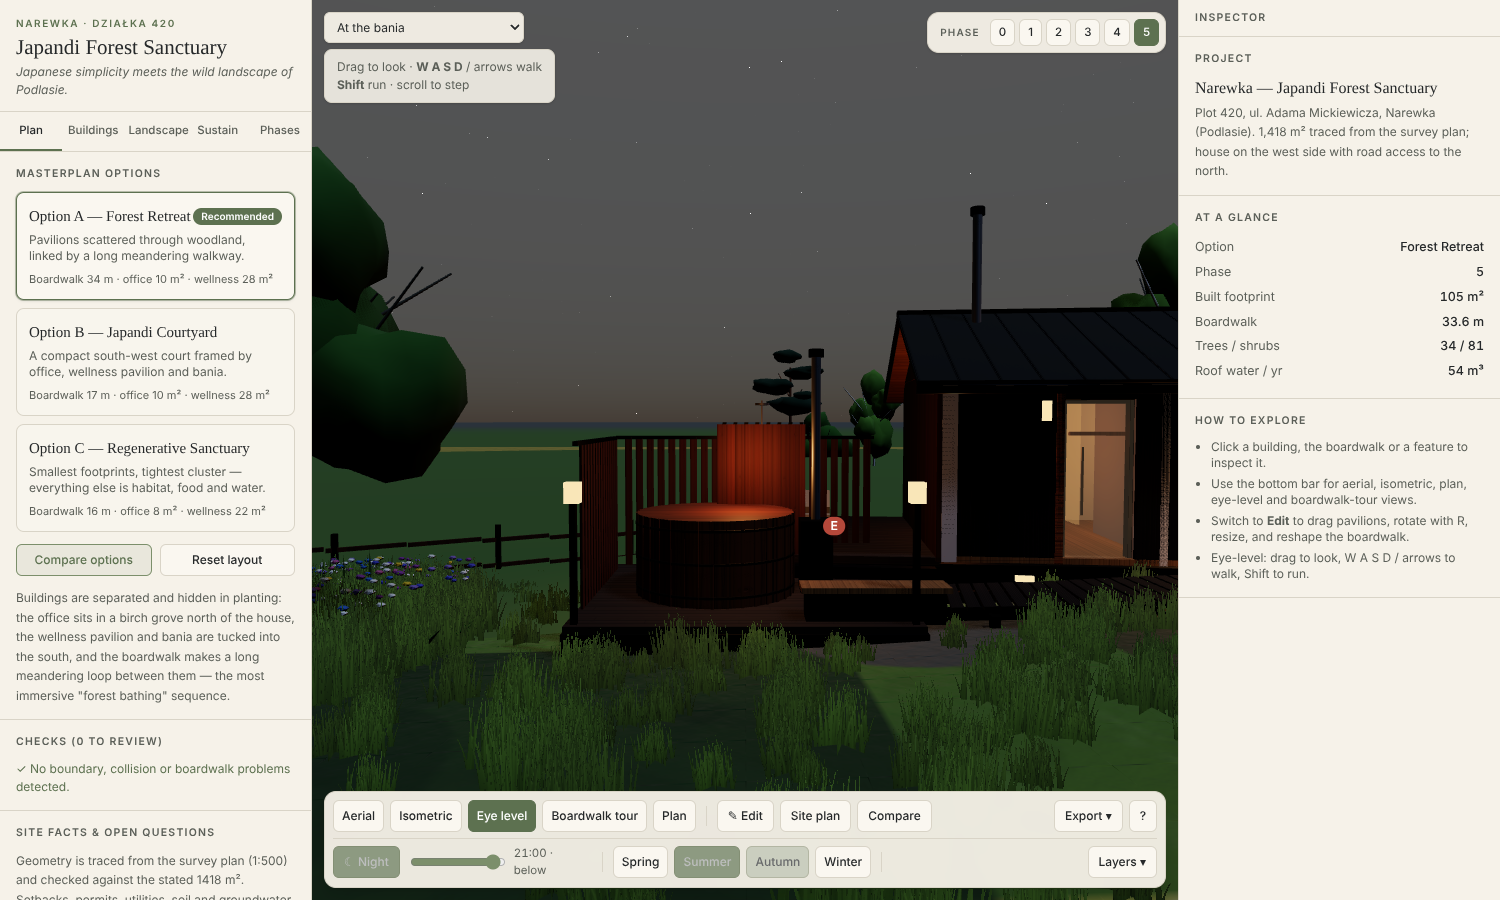
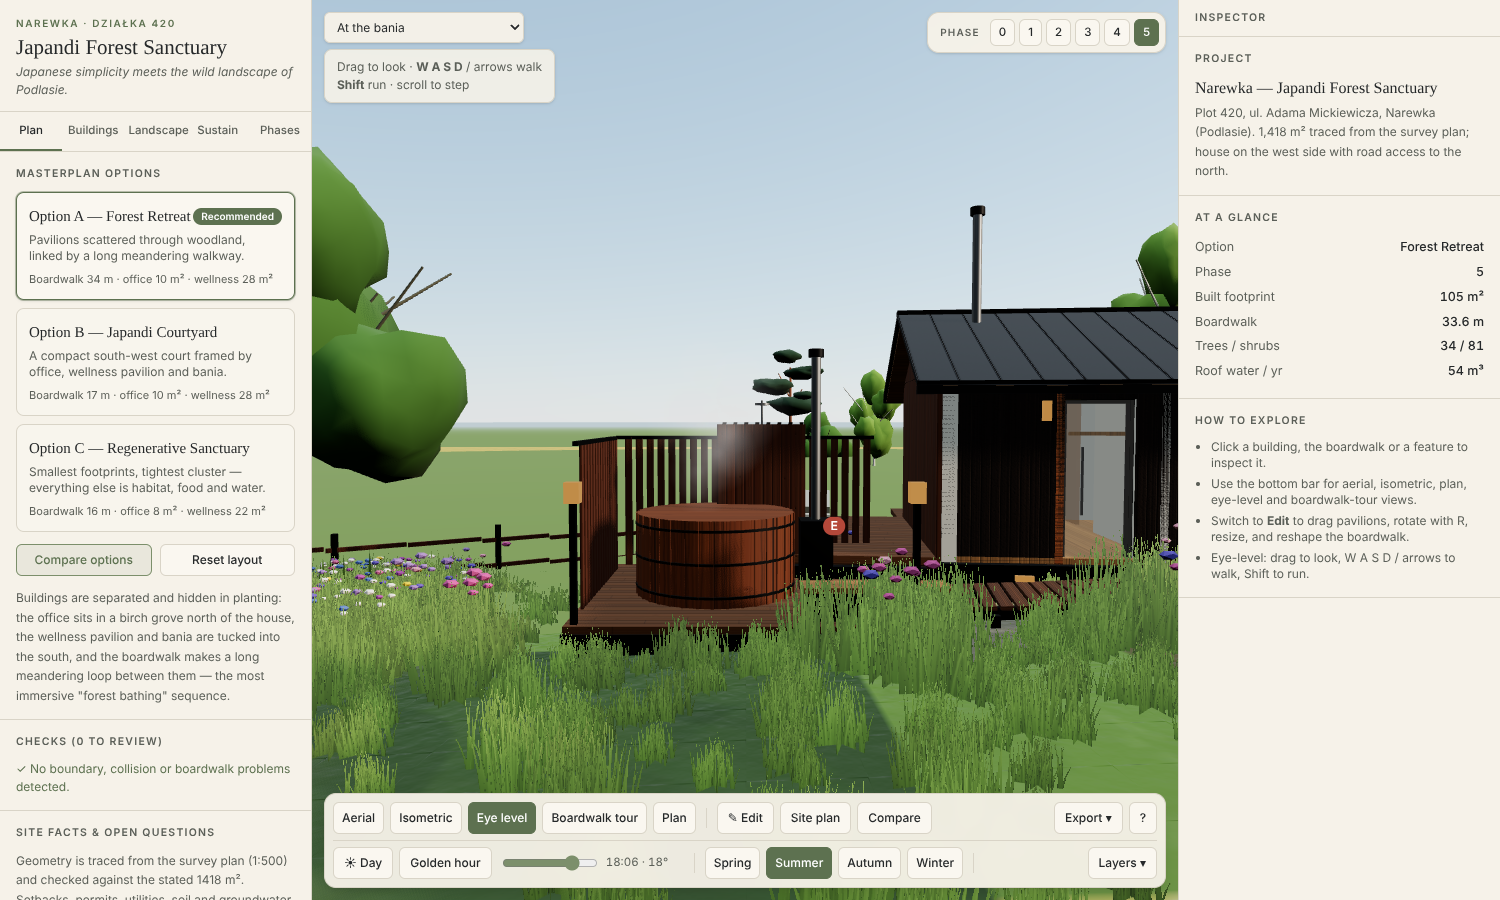
Golden-hour look, warmer timber, pavilion decks, pots, steam, perennial borders
Claude-Session: https://claude.ai/code/session_013LL2KCf1SQnkWK21ft5mYr

diff --git a/src/scene/Pavilions.tsx b/src/scene/Pavilions.tsx
@@ -1,10 +1,11 @@
-import { useMemo } from 'react'
+import { useMemo, useRef } from 'react'
+import { useFrame } from '@react-three/fiber'
 import * as THREE from 'three'
 import type { Structure } from '../data/layouts'
 import { useStore } from '../store'
 import { rectCorners, terrainY } from '../lib/geometry'
 import { B, Cyl, Wall, Glazing, Gable, GableRoof, MonoRoof, type Opening } from './prims'
-import { M, flatMat } from './materials'
+import { M, flatMat, steamTexture } from './materials'
 import { usePick, useSunState } from './env'
 import { useWalk } from './useWalk'
 
@@ -55,6 +56,45 @@ function Piles({ s, floor }: { s: Structure; floor: number }) {
 }
 
 const plantGeo = new THREE.IcosahedronGeometry(1, 1)
+/** Row of terracotta pots with perennials along a deck edge (local coordinates). */
+function Pots({ xs, z, y = 0 }: { xs: number[]; z: number; y?: number }) {
+  return (
+    <>
+      {xs.map((x, i) => (
+        <group key={i} position={[x, y, z]}>
+          <Cyl at={[0, 0.17, 0]} r={0.17} h={0.34} m={M.pot} seg={10} />
+          <mesh position={[0, 0.52, 0]} scale={[0.27, 0.3 + (i % 3) * 0.06, 0.27]} geometry={plantGeo} material={M.green} castShadow />
+          {i % 2 === 0 && <mesh position={[0.05, 0.78, 0]} scale={[0.09, 0.06, 0.09]} geometry={plantGeo} material={M.fabricMustard} />}
+        </group>
+      ))}
+    </>
+  )
+}
+
+/** Rising steam above the bathing tub. */
+function Steam() {
+  const refs = useRef<(THREE.Sprite | null)[]>([])
+  useFrame(({ clock }) => {
+    refs.current.forEach((s, i) => {
+      if (!s) return
+      const t = (clock.elapsedTime * 0.22 + i / 8) % 1
+      s.position.set(Math.sin(i * 2.1 + t * 3) * 0.3, t * 1.9, Math.cos(i * 3.3 + t * 2) * 0.3)
+      const k = 0.55 + t * 1.2
+      s.scale.set(k, k, 1)
+      ;(s.material as THREE.SpriteMaterial).opacity = 0.42 * Math.sin(Math.PI * t)
+    })
+  })
+  return (
+    <group position={[0, 1.0, 0]}>
+      {Array.from({ length: 8 }, (_, i) => (
+        <sprite key={i} ref={(el) => { refs.current[i] = el }}>
+          <spriteMaterial map={steamTexture} transparent depthWrite={false} color="#ffffff" opacity={0.3} />
+        </sprite>
+      ))}
+    </group>
+  )
+}
+
 const ox = (x0: number, x1: number, y0: number, y1: number, extra: Partial<Opening> = {}): Opening => ({ x0, x1, y0, y1, ...extra })
 
 /** Trapezoid side wall for mono-pitch volumes: cladding outside, plaster inside. `side` = +1 east / -1 west. */
@@ -86,7 +126,7 @@ export function Office({ s }: { s: Structure }) {
   const floor = useFloorY(s)
   const pick = usePick(s.id)
   const interiors = useStore((st) => st.layers.interiors)
-  const { night } = useSunState()
+  const { glow: night } = useSunState()
   const w = s.w, d = s.d
   const low = 2.4, high = 3.05
   const front: Opening[] = [ox(-w / 2 + 0.45, w / 2 - 0.45, 0.4, 2.6, { mullions: 1 })]
@@ -129,6 +169,10 @@ export function Office({ s }: { s: Structure }) {
       </mesh>
       <Cyl at={[-0.8, 0.28, d / 2 - 0.5]} r={0.16} h={0.4} m={M.pot} seg={10} />
       <Cyl at={[-0.8, 0.7, d / 2 - 0.5]} r={0.24} h={0.5} m={M.green} seg={8} cast={false} />
+      {/* view-side deck with pots */}
+      <B at={[0, -0.02, d / 2 + 0.95]} s={[w + 0.7, 0.1, 1.6]} m={M.deck} />
+      {[-w / 2 - 0.2, w / 2 + 0.2].map((x, i) => <B key={'dp' + i} at={[x, -0.25, d / 2 + 1.6]} s={[0.1, 0.4, 0.1]} m={M.steel} cast={false} />)}
+      <Pots xs={[-w / 2 + 0.1, w / 2 - 0.1]} z={d / 2 + 1.55} />
       {/* entrance landing + lamp */}
       <B at={[0.8, 0.0, -d / 2 - 0.5]} s={[1.3, 0.1, 0.9]} m={M.deck} />
       <B at={[1.45, 2.15, -d / 2 - 0.08]} s={[0.1, 0.26, 0.1]} m={M.lamp} cast={false} />
@@ -144,7 +188,7 @@ export function Wellness({ s }: { s: Structure }) {
   const floor = useFloorY(s)
   const pick = usePick(s.id)
   const interiors = useStore((st) => st.layers.interiors)
-  const { night } = useSunState()
+  const { glow: night } = useSunState()
   const w = s.w, d = s.d
   const eave = 2.55
   const pitch = (24 * Math.PI) / 180
@@ -212,6 +256,11 @@ export function Wellness({ s }: { s: Structure }) {
       <B at={[-w / 2 + 0.05, 1.2, 0.0]} s={[0.04, 1.8, 1.6]} m={M.glass} cast={false} />
       <Cyl at={[-w / 2 + 1.7, 0.12, 0.6]} r={0.09} h={0.7} m={M.fabricSage} rot={[0, 0, Math.PI / 2]} seg={10} />
       <B at={[-w / 2 + 1.0, 0.12, 0.7]} s={[0.6, 0.04, 1.7]} m={M.fabricSage} cast={false} />
+      {/* south deck along the glazing, with pots and lanterns */}
+      <B at={[0, -0.02, d / 2 + 0.85]} s={[w + 0.3, 0.1, 1.5]} m={M.deck} />
+      <B at={[0, -0.27, d / 2 + 0.85]} s={[w, 0.4, 1.4]} m={M.steel} cast={false} />
+      <Pots xs={[-w / 2 + 0.3, -w / 2 + 2.2, 0.8, w / 2 - 0.9]} z={d / 2 + 1.45} />
+      {[-w / 2 + 1.4, w / 2 - 1.5].map((x, i) => <B key={'ln' + i} at={[x, 0.2, d / 2 + 0.5]} s={[0.16, 0.34, 0.16]} m={M.lamp} cast={false} />)}
       {/* exterior: east relaxation deck + outdoor shower + lounger */}
       <group position={[w / 2 + 1.6, 0, 0]}>
         <B at={[0, 0.0, 0]} s={[3.2, 0.12, d]} m={M.deck} />
@@ -235,7 +284,7 @@ export function Wellness({ s }: { s: Structure }) {
 export function Bania({ s }: { s: Structure }) {
   const floor = useFloorY(s)
   const pick = usePick(s.id)
-  const { night } = useSunState()
+  const { glow: night } = useSunState()
   const w = s.w, d = s.d
   const tubR = Math.min(0.98, Math.min(w, d) / 2 - 0.55)
   const tx = w / 2 - tubR - 0.55
@@ -255,6 +304,7 @@ export function Bania({ s }: { s: Structure }) {
           <circleGeometry args={[tubR - 0.04, 36]} />
         </mesh>
         <mesh position={[0, 0.94, 0]} material={M.fire} />
+        <Steam />
         <B at={[-tubR - 0.28, 0.45, 0]} s={[0.4, 0.9, 0.4]} m={M.steel} />
         <Cyl at={[-tubR - 0.28, 1.9, 0]} r={0.06} h={2.1} m={M.steelLight} seg={10} />
         <Cyl at={[-tubR - 0.28, 2.98, 0]} r={0.1} h={0.1} m={M.steel} seg={10} />
@@ -288,7 +338,7 @@ export function Bania({ s }: { s: Structure }) {
 /* ------------------------------------------------------------ GREENHOUSE */
 export function Greenhouse({ s }: { s: Structure }) {
   const pick = usePick(s.id)
-  const { night } = useSunState()
+  const { glow: night } = useSunState()
   const w = s.w, d = s.d
   const g = terrainY(s.x, s.z)
   const wallH = 1.9

diff --git a/src/scene/Lighting.tsx b/src/scene/Lighting.tsx
@@ -13,7 +13,7 @@ const SKY_NIGHT = new THREE.Color('#0b1220')
 
 /** Sun/moon, sky, fog, seasonal and night material updates. */
 export function Lighting() {
-  const { dir, sun, day, night, snow, season } = useSunState()
+  const { dir, sun, day, night, snow, season, glow } = useSunState()
   const quality = useStore((s) => s.settings.quality)
   const { scene } = useThree()
   const light = useRef<THREE.DirectionalLight>(null)
@@ -25,7 +25,7 @@ export function Lighting() {
 
   const alt = sun.alt
   const lowSun = THREE.MathUtils.smoothstep(0.45 - Math.sin(Math.max(alt, 0)), 0, 0.45) // 1 when near horizon
-  const sunColor = useMemo(() => new THREE.Color('#fff4e0').lerp(new THREE.Color('#ffb072'), lowSun), [lowSun])
+  const sunColor = useMemo(() => new THREE.Color('#fff4e0').lerp(new THREE.Color('#ff9d52'), lowSun), [lowSun])
   const fogColor = useMemo(() => {
     const c = SKY_DAY.clone().lerp(SKY_DUSK, lowSun * day * 0.65)
     return c.lerp(SKY_NIGHT, night)
@@ -45,9 +45,9 @@ export function Lighting() {
 
   // material updates that depend on season / night
   useEffect(() => {
-    M.glass.emissiveIntensity = night * 0.65
-    M.glassDark.emissiveIntensity = night * 0.5
-    M.lamp.emissiveIntensity = night * 2.6
+    M.glass.emissiveIntensity = glow * 0.7
+    M.glassDark.emissiveIntensity = glow * 0.55
+    M.lamp.emissiveIntensity = glow * 2.8
     const snowCol = new THREE.Color('#eef3f4')
     for (const m of [M.roof, M.roofSlope]) {
       m.color.set('#ffffff').lerp(snowCol, snow * 0.35)
@@ -56,20 +56,20 @@ export function Lighting() {
     M.walk.color.set('#ffffff').lerp(snowCol, snow * 0.4)
     M.mulch.color.set('#5a4230').lerp(new THREE.Color('#d4dadc'), snow * 0.7)
     M.concrete.color.set('#8d8b86').lerp(snowCol, snow * 0.4)
-  }, [night, snow])
+  }, [night, snow, glow])
 
   const shadowSize = quality === 'high' ? 4096 : 2048
   return (
     <>
       <Sky distance={4500} sunPosition={dir.clone().multiplyScalar(1000).toArray() as [number, number, number]} turbidity={season === 'winter' ? 6 : 4} rayleigh={lerp(0.6, 2.4, lowSun) * (night > 0.7 ? 0.1 : 1)} mieCoefficient={0.004} mieDirectionalG={0.8} />
       {night > 0.4 && <Stars radius={600} depth={60} count={3500} factor={5} saturation={0} fade speed={0.3} />}
-      <hemisphereLight args={[night > 0.5 ? '#2b3a58' : '#cfe0ee', night > 0.5 ? '#14170f' : '#6d6a46', lerp(0.28, 0.65, day) + night * 0.42]} />
+      <hemisphereLight args={[night > 0.5 ? '#2b3a58' : lowSun > 0.4 ? '#e9d3c0' : '#cfe0ee', night > 0.5 ? '#14170f' : lowSun > 0.4 ? '#8a7048' : '#6d6a46', lerp(0.28, 0.7, day) + night * 0.42]} />
       <directionalLight
         ref={light}
         castShadow
         position={[PLOT_CENTER[0] + lp.x, lp.y, PLOT_CENTER[1] + lp.z]}
         target={target}
-        intensity={day * 3.4 * (0.35 + 0.65 * (1 - lowSun * 0.45)) + night * 1.1}
+        intensity={day * 3.6 * (0.45 + 0.55 * (1 - lowSun * 0.3)) + night * 1.1}
         color={night > 0.5 ? '#9db4e6' : sunColor}
         shadow-mapSize={[shadowSize, shadowSize]}
         shadow-bias={-0.00025}

diff --git a/src/lib/vegetation.ts b/src/lib/vegetation.ts
@@ -153,6 +153,38 @@ export function generateVegetation(layout: Layout, phase: number, releaseSecond:
     if (meadow && r() < 0.55) flowers.push({ x: x + (r() - 0.5) * 0.3, y, z: z + (r() - 0.5) * 0.3, s: 0.7 + r() * 0.6, rot: r() * 6.283, col: Math.floor(r() * 9), phase: ph })
   }
 
+  // Perennial borders: drifts of garden perennials hugging the pavilions, house and boardwalk (like a cottage-garden edge)
+  const gr = rng(hashStr('border' + layout.id))
+  const gf = () => 9 + Math.floor(gr() * 6) // garden flower indices (see MEADOW_FLOWERS)
+  const clump = (x: number, z: number, ph: number) => {
+    if (!insidePlot(x, z) || distToPolyEdge(x, z, PLOT) < 0.7 || blocked(x, z, false, 0.2)) return false
+    const y = terrainY(x, z)
+    const main = gf()
+    const n = 5 + Math.floor(gr() * 6)
+    for (let i = 0; i < n; i++) flowers.push({ x: x + (gr() - 0.5) * 0.8, y, z: z + (gr() - 0.5) * 0.8, s: 0.55 + gr() * 0.4, rot: 0, col: gr() < 0.7 ? main : gf(), phase: ph })
+    for (let i = 0; i < 3; i++) tufts.push({ x: x + (gr() - 0.5) * 0.9, y, z: z + (gr() - 0.5) * 0.9, s: 1.0 + gr() * 0.5, rot: gr() * 6.28, c: gr(), phase: ph, meadow: true })
+    return true
+  }
+  const around = (cx: number, cz: number, w: number, d: number, rot: number, ph: number, want: number) => {
+    const a = (rot * Math.PI) / 180
+    const c = Math.cos(a), s = Math.sin(a)
+    let placed = 0
+    for (let t = 0; t < want * 8 && placed < want; t++) {
+      const lx = (gr() - 0.5) * (w + 5), lz = (gr() - 0.5) * (d + 5)
+      const ax = Math.abs(lx) - w / 2, az = Math.abs(lz) - d / 2
+      if (Math.max(ax, az) < 1.0 || Math.max(ax, az) > 2.3) continue
+      if (clump(cx + lx * c + lz * s, cz - lx * s + lz * c, ph)) placed++
+    }
+  }
+  for (const st of layout.structures) around(st.x, st.z, st.w, st.d, st.rot, st.phase, st.kind === 'bania' ? 10 : 20)
+  around(7.3, 18.05, 4.2, 10.7, 0, 1, 26)
+  for (let i = 0; i < ctx.bw.length; i += 4) {
+    const p = ctx.bw[i]
+    const side = gr() < 0.5 ? -1 : 1
+    const off = ctx.bwWidth / 2 + 0.55 + gr() * 0.9
+    clump(p.x + -p.tz * side * off, p.z + p.tx * side * off, 2)
+  }
+
   // Context: far trees, hedgerows & neighbours' growth (not counted in the dashboard)
   const cr = rng(hashStr('context'))
   const context: Plant[] = []

diff --git a/src/scene/materials.ts b/src/scene/materials.ts
@@ -3,12 +3,12 @@ import { makeBoards, makeNoise, makeSeamRoof, makeStone, makeTuft, makeRake, mak
 
 const std = (p: THREE.MeshStandardMaterialParameters) => new THREE.MeshStandardMaterial(p)
 
-const charred = makeBoards({ base: '#3b2d24', boards: 8, vary: 0.2, gap: 3, char: true, vertical: true, seed: 3 })
+const charred = makeBoards({ base: '#6d4a34', boards: 8, vary: 0.2, gap: 3, char: true, vertical: true, seed: 3 })
 const larchWarm = makeBoards({ base: '#a67647', boards: 8, vary: 0.2, gap: 3, vertical: true, seed: 8 })
 const larchNew = makeBoards({ base: '#7a5638', boards: 8, vary: 0.16, gap: 3, vertical: true, seed: 13 })
 const lightBoards = makeBoards({ base: '#d2b389', boards: 8, vary: 0.14, gap: 2, vertical: true, seed: 5 })
-const deckBoards = makeBoards({ base: '#7d6a55', boards: 7, vary: 0.2, gap: 4, vertical: false, seed: 17 })
-const walkBoards = makeBoards({ base: '#5b4a3b', boards: 7, vary: 0.2, gap: 4, vertical: false, seed: 19 })
+const deckBoards = makeBoards({ base: '#a9855a', boards: 7, vary: 0.2, gap: 4, vertical: false, seed: 17 })
+const walkBoards = makeBoards({ base: '#a47c52', boards: 7, vary: 0.2, gap: 4, vertical: false, seed: 19 })
 const saunaBoards = makeBoards({ base: '#d9a468', boards: 10, vary: 0.12, gap: 2, vertical: false, seed: 23 })
 const roof = makeSeamRoof()
 export const noise = makeNoise(256, 9, 1.3)
@@ -16,6 +16,20 @@ export const noiseSoft = makeNoise(256, 4, 0.8)
 const stoneTex = makeStone('#807d76', 4)
 const slateTex = makeStone('#585a58', 6)
 
+export const steamTexture = (() => {
+  const c = document.createElement('canvas')
+  c.width = c.height = 128
+  const g = c.getContext('2d')!
+  const grd = g.createRadialGradient(64, 64, 4, 64, 64, 62)
+  grd.addColorStop(0, 'rgba(255,255,255,0.9)')
+  grd.addColorStop(0.5, 'rgba(255,255,255,0.35)')
+  grd.addColorStop(1, 'rgba(255,255,255,0)')
+  g.fillStyle = grd
+  g.fillRect(0, 0, 128, 128)
+  const t = new THREE.CanvasTexture(c)
+  t.colorSpace = THREE.SRGBColorSpace
+  return t
+})()
 export const tuftTexture = makeTuft()
 export const rakeTexture = makeRake()
 export const waterTexture = makeWater()

diff --git a/src/data/species.ts b/src/data/species.ts
@@ -52,6 +52,12 @@ export const MEADOW_FLOWERS: { name: string; latin: string; color: string; bloom
   { name: 'Meadow sage', latin: 'Salvia pratensis', color: '#6a63c2', bloom: [5, 7] },
   { name: 'Red clover', latin: 'Trifolium pratense', color: '#cf6f9a', bloom: [5, 9] },
   { name: 'Wild carrot', latin: 'Daucus carota', color: '#f3f1e4', bloom: [6, 9] },
+  { name: 'Purple coneflower', latin: 'Echinacea purpurea', color: '#c9609a', bloom: [6, 9] },
+  { name: 'Woodland sage', latin: 'Salvia nemorosa', color: '#6a63c2', bloom: [6, 8] },
+  { name: 'Garden phlox', latin: 'Phlox paniculata', color: '#e8a0b4', bloom: [6, 9] },
+  { name: 'Ornamental onion', latin: 'Allium', color: '#9a7fbf', bloom: [5, 7] },
+  { name: 'Panicle hydrangea', latin: 'Hydrangea paniculata', color: '#f3ede0', bloom: [7, 10] },
+  { name: 'Stonecrop', latin: 'Hylotelephium', color: '#c97a9a', bloom: [8, 10] },
 ]
 
 export type ZoneMixEntry = [string, number]

diff --git a/src/ui/Toolbar.tsx b/src/ui/Toolbar.tsx
@@ -119,6 +119,7 @@ export function Toolbar() {
       </div>
       <div className="mt-1.5 flex flex-wrap items-center gap-1.5 border-t border-line pt-1.5">
         <Btn active={night} onClick={() => useStore.getState().setNight(!night)} title="Toggle day / night">{night ? '☾ Night' : '☀ Day'}</Btn>
+        <Btn onClick={() => useStore.getState().setHour(19.0)} title="Warm low sun, lit windows">Golden hour</Btn>
         <div className="flex items-center gap-2 px-1">
           <input type="range" min={4} max={22} step={0.25} value={hour} onChange={(e) => setHour(parseFloat(e.target.value))} className="w-[96px]" aria-label="Solar time" />
           <span className="w-[74px] text-[11.5px] tabular-nums text-ink-2">{String(hh).padStart(2, '0')}:{String(mm).padStart(2, '0')} · {alt > 0 ? `${alt.toFixed(0)}°` : 'below'}</span>

diff --git a/src/scene/env.ts b/src/scene/env.ts
@@ -16,7 +16,9 @@ export function useSunState() {
     const dir = sunDir(sun, north)
     const sinAlt = Math.sin(sun.alt)
     const day01 = smooth(-0.1, 0.12, sinAlt) // 0 = night, 1 = day
-    return { sun, dir, sinAlt, day: day01, night: 1 - day01, snow: season === 'winter' ? 1 : 0, season, leafy: season === 'summer' || season === 'spring' || season === 'autumn' }
+    const lowSun = smooth(0.42, 0.0, Math.max(sinAlt, 0)) // 1 near the horizon (golden hour)
+    const glow = Math.max(1 - day01, day01 * lowSun * 0.85) // warm windows & lamps from golden hour on
+    return { sun, dir, sinAlt, day: day01, night: 1 - day01, glow, lowSun, snow: season === 'winter' ? 1 : 0, season, leafy: season === 'summer' || season === 'spring' || season === 'autumn' }
   }, [season, hour, north])
 }
 

diff --git a/src/scene/textures.ts b/src/scene/textures.ts
@@ -103,7 +103,7 @@ export function makeBoards(o: BoardOpts) {
       for (let k = 0; k < 210; k++) {
         const cx = x + r() * bw
         const cy = r() * S
-        g.strokeStyle = rgb(0, 0, 0, 0.1 + r() * 0.35)
+        g.strokeStyle = rgb(0, 0, 0, 0.04 + r() * 0.18)
         g.lineWidth = 0.7 + r() * 1.1
         g.beginPath()
         g.moveTo(cx - bw * 0.1, cy)

diff --git a/src/scene/Vegetation.tsx b/src/scene/Vegetation.tsx
@@ -394,7 +394,7 @@ export function Vegetation() {
         deps={[flowers]}
         fill={(i, o, c) => {
           const f = flowers[i]
-          o.position.set(f.x, f.y + 0.5 + f.s * 0.3, f.z)
+          o.position.set(f.x, f.y + 0.45 + f.s * 0.35, f.z)
           o.scale.set(f.s * 1.2, f.s * 0.7, f.s * 1.2)
           c.set(MEADOW_FLOWERS[f.col].color)
         }}

diff --git a/src/scene/Boardwalk.tsx b/src/scene/Boardwalk.tsx
@@ -32,7 +32,7 @@ export function Boardwalk() {
   const width = useStore((s) => s.layout.boardwalkWidth)
   const { samples, length } = useWalk()
   const pick = usePick('boardwalk')
-  const { night } = useSunState()
+  const { glow: night } = useSunState()
 
   const data = useMemo(() => {
     const planks: { p: PathSample; slope: number }[] = []

diff --git a/src/scene/Features.tsx b/src/scene/Features.tsx
@@ -18,7 +18,7 @@ function Boulder({ at, s, c = '#8a8780' }: { at: [number, number, number]; s: [n
 }
 
 function FirePit({ f }: { f: Feature }) {
-  const { night } = useSunState()
+  const { glow: night } = useSunState()
   const stones = useMemo(() => Array.from({ length: 12 }, (_, i) => (i / 12) * Math.PI * 2), [])
   return (
     <group>

diff --git a/src/store.ts b/src/store.ts
@@ -116,7 +116,7 @@ export const useStore = create<State>((set, get) => ({
   camNonce: 0,
   viewpoint: 'terrace',
   season: 'summer',
-  hour: 15.5,
+  hour: 19.0,
   layers: defaultLayers,
   settings: defaultSettings,
   editMode: false,
